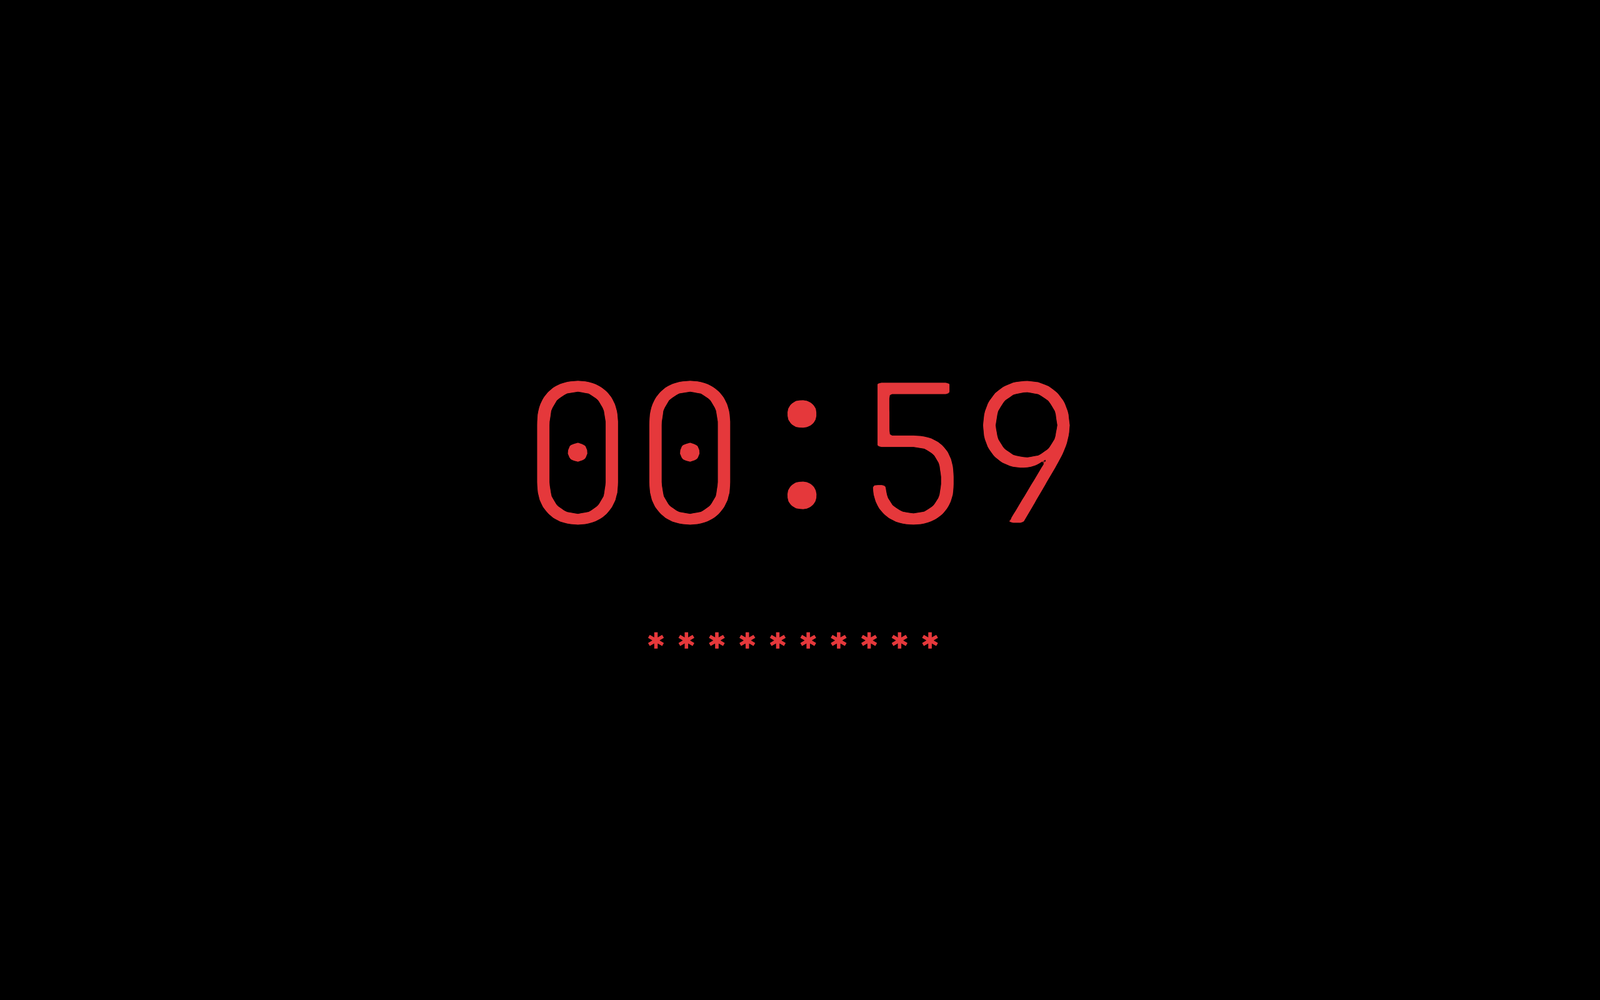
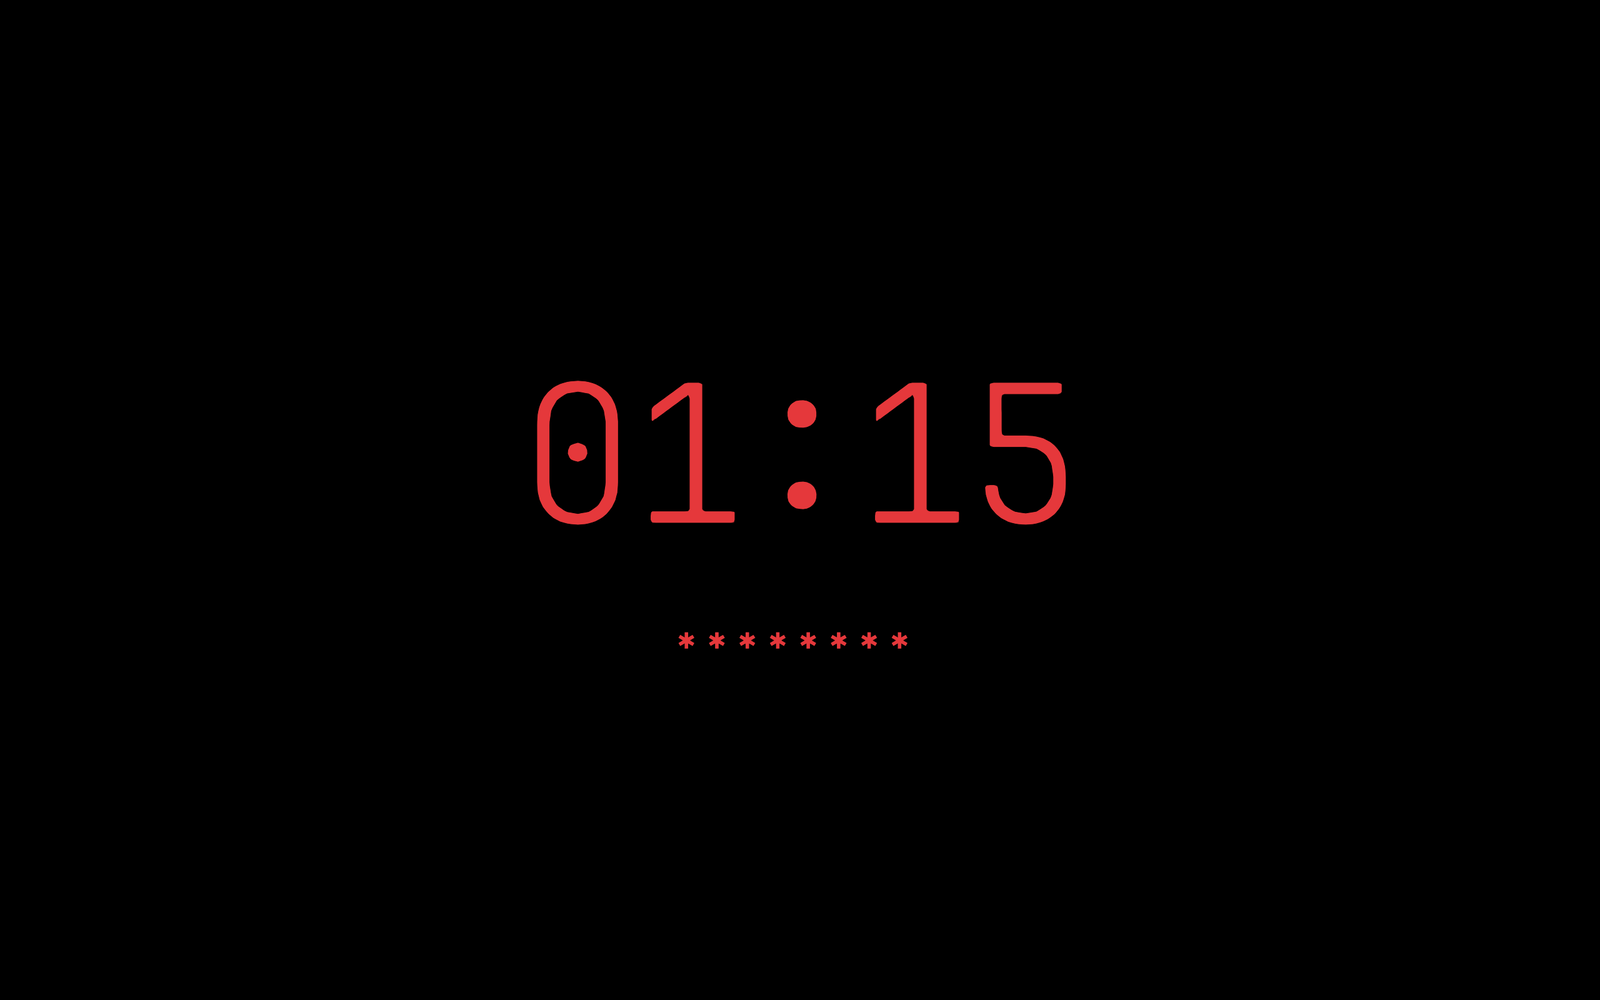
README: refreshed screenshots; add launcher and fetch

Changed region(s): [[0.5312, 0.372, 0.6875, 0.527], [0.4062, 0.372, 0.4688, 0.527], [0.5625, 0.62, 0.5938, 0.651]]

diff --git a/README.md b/README.md
@@ -65,10 +65,15 @@
 | Desktop: idle, so the stripes are allowed | Lock screen |
 |---|---|
 | ![Desktop with Sleep/Recovery/Strain and CPU/GPU/RAM rings, a GitHub day grid and the red stripes wallpaper](docs/desktop.png) | ![Lock screen with a thin red clock](docs/lock-screen.png) |
-| *WHOOP and CPU / GPU / RAM rings, a year of GitHub days, black bar with battery %* | *Type your password; it unlocks when it's complete* |
+| *Sleep / recovery / strain and CPU / GPU / RAM rings, a year of GitHub days, black bar with battery %* | *Type your password; it unlocks when it's complete* |
 | **Login screen** | **Boot menu (Limine)** |
 | ![Login screen: the same thin red clock and red stars](docs/login-screen.png) | ![Limine boot menu, red on black: DictatorOS, Oryx Windows, Personal Windows](docs/boot-menu.png) |
 | *Same clock and stars as the lock screen* | *Three entries, 10 s countdown, no snapshots* |
+
+| **Launcher (Super+Space)** | **`fetch`** |
+|---|---|
+| ![Vicinae launcher, Spotlight-style, over a dimmed terminal](docs/launcher.png) | ![fetch: the DictatorOS crown with system info](docs/fetch.png) |
+| *Spotlight-style search; everything behind it dims* | *The crown builds itself, then the info appears* |
 
 <p align="center"><img src="docs/chromium.png" alt="Chromium with tabs on the left and a black new tab page: red Google logo and one search bar" width="720"><br><em>Chromium: red accents, tabs on the left, a new tab page with nothing but search</em></p>
 
